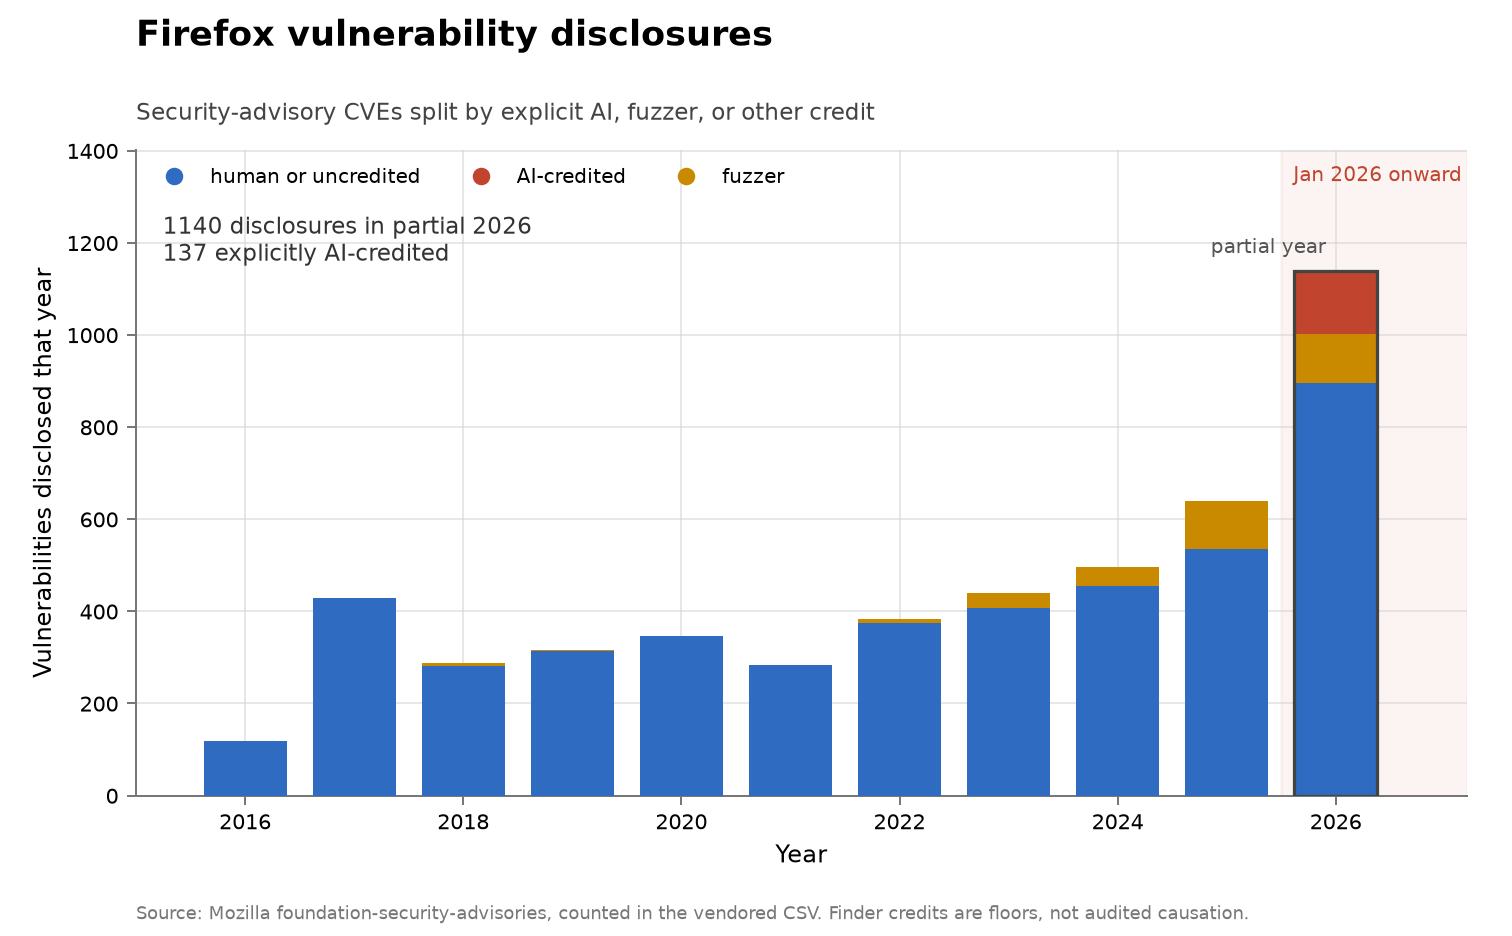
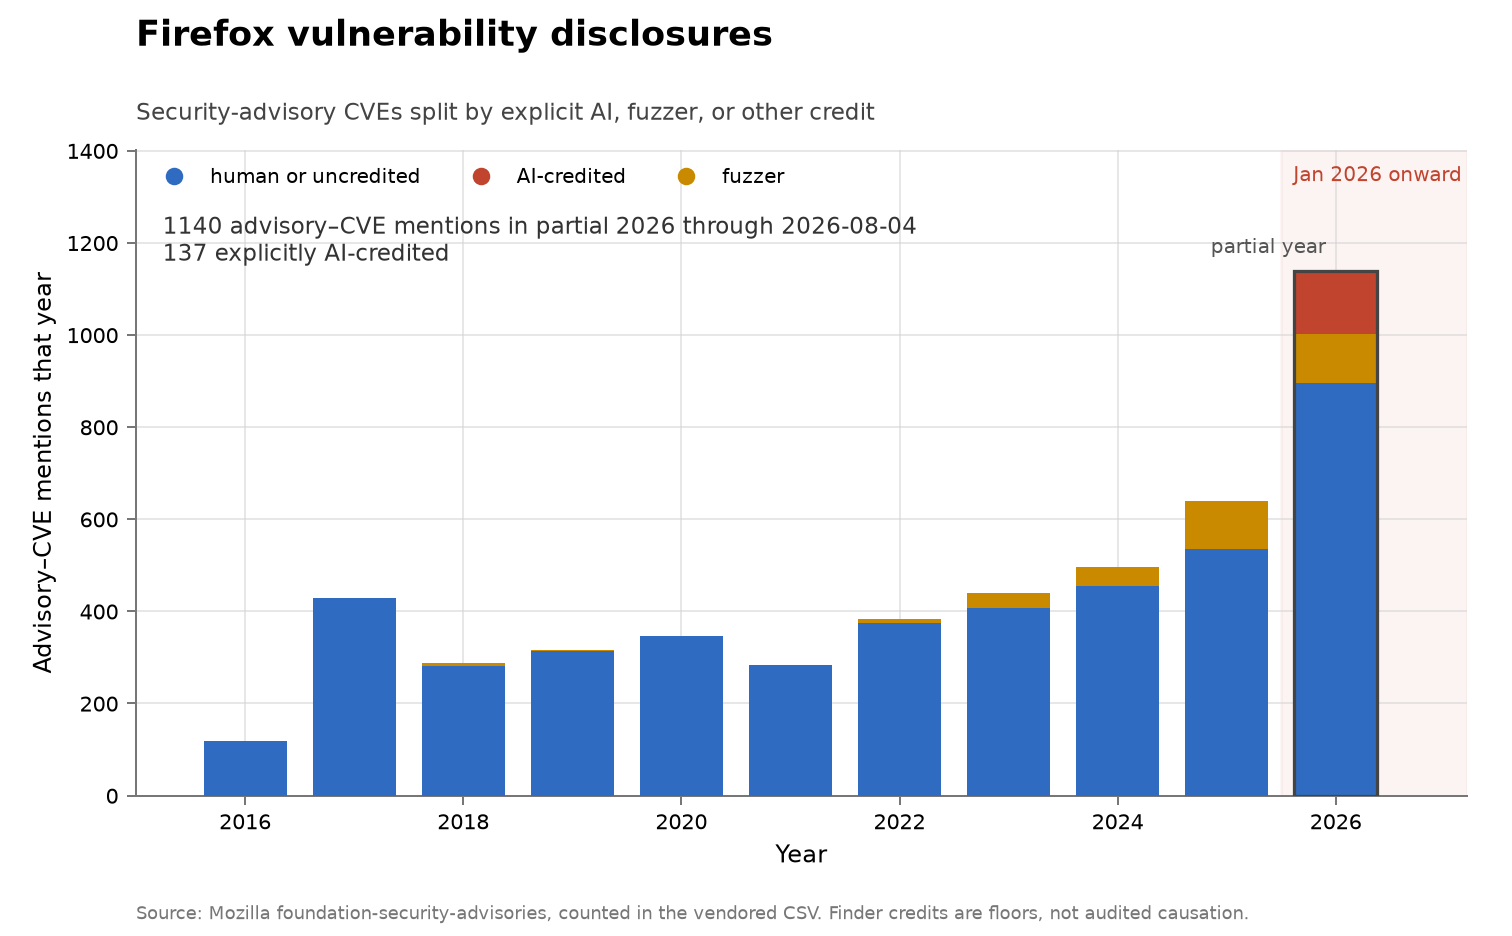
Clarify Firefox units and preserve full OpenSSL credits

Changed region(s): [[0.1554, 0.2169, 0.6217, 0.2479], [0.0, 0.2788, 0.0311, 0.7126]]

diff --git a/problems/cyber-firefox/fetch.py b/problems/cyber-firefox/fetch.py
@@ -70,41 +70,64 @@ def records() -> list[dict]:
                 parsed = yaml.safe_load(text) or {}
             except Exception:
                 continue
+            announced_text = str(parsed.get("announced") or "")
+            try:
+                announced_date = datetime.strptime(
+                    announced_text, "%B %d, %Y"
+                ).date().isoformat()
+            except ValueError:
+                announced_date = ""
             for key, value in (parsed.get("advisories") or {}).items():
                 if not str(key).startswith("CVE"):
                     continue
                 reporter = (
                     str(value.get("reporter", "")) if isinstance(value, dict) else ""
                 )
-                rows.append({"year": year, "reporter": reporter})
+                rows.append({
+                    "year": year,
+                    "announced": announced_date,
+                    "cve": str(key),
+                    "reporter": reporter,
+                })
     return rows
 
 
 def build_annual(rows: list[dict]) -> list[dict]:
     per_year: dict[int, Counter] = defaultdict(Counter)
+    unique_cves: dict[int, set[str]] = defaultdict(set)
+    unique_ai_cves: dict[int, set[str]] = defaultdict(set)
     ai_reporters: Counter = Counter()
     for record in rows:
         bucket = per_year[record["year"]]
         bucket["total"] += 1
+        unique_cves[record["year"]].add(record["cve"])
         category = classify(record["reporter"], ai=FIREFOX_AI)
         bucket[f"{category}_attributed"] += 1
         if category == "ai":
             ai_reporters[record["reporter"][:90]] += 1
+            unique_ai_cves[record["year"]].add(record["cve"])
     this_year = datetime.now(timezone.utc).year
+    latest = max(
+        (record["announced"] for record in rows if record["announced"]),
+        default="",
+    )
     annual = [
         {
             "year": year,
             "total": per_year[year]["total"],
+            "unique_cves": len(unique_cves[year]),
             "ai_attributed": per_year[year]["ai_attributed"],
+            "unique_ai_cves": len(unique_ai_cves[year]),
             "fuzz_attributed": per_year[year]["fuzz_attributed"],
             "other_attributed": per_year[year]["other_attributed"],
             "partial_year": "yes" if year == this_year else "no",
+            "data_through": latest if year == this_year else "",
         }
         for year in sorted(per_year)
         if per_year[year]["total"]
     ]
     print(
-        f"firefox: {sum(r['total'] for r in annual)} CVEs, "
+        f"firefox: {sum(r['total'] for r in annual)} advisory-CVE mentions, "
         f"{annual[0]['year']}–{annual[-1]['year']}"
     )
     print(
@@ -135,7 +158,8 @@ def build_finders(rows: list[dict]) -> list[dict]:
     print(f"firefox finders: {len(out)} year-finder rows, {len(ai)} AI-credited")
     if ai:
         top = max(ai, key=lambda row: row["cves"])
-        print(f"  top AI finder {top['cves']} CVEs — {top['finder'][:56]}")
+        print(f"  top AI finder {top['cves']} advisory-CVE mentions — "
+              f"{top['finder'][:56]}")
     return out
 
 

diff --git a/lib/families.py b/lib/families.py
@@ -47,6 +47,9 @@ def cyber_stacked(
     source_label: str,
     source_url: str,
     built_by: str,
+    *,
+    ylabel: str = "Vulnerabilities disclosed that year",
+    unit_label: str = "disclosures",
 ) -> None:
     rows = read_csv(csv_path)
     years = [int(row["year"]) for row in rows]
@@ -84,25 +87,31 @@ def cyber_stacked(
     ax.set_xlim(min(years) - 1, right)
     ax.set_ylim(0, max(totals) * 1.23)
     shade_era(ax, right, annual=True)
-    style(ax, "Vulnerabilities disclosed that year")
+    style(ax, ylabel)
     ax.xaxis.set_major_locator(MaxNLocator(integer=True, nbins=7))
     ax.legend(handles=common_legend(fuzz=any(fuzz)), frameon=False, fontsize=8, ncol=3)
-    latest = rows[-1]
-    ax.text(
-        0.02,
-        0.9,
-        f"{latest['total']} disclosures in partial 2026\n"
-        f"{latest['ai_attributed']} explicitly AI-credited",
-        transform=ax.transAxes,
-        fontsize=9,
-        color="#333333",
-        va="top",
-    )
+    if partial:
+        latest = rows[partial[-1]]
+        through = (
+            f" through {latest['data_through']}"
+            if latest.get("data_through") else ""
+        )
+        ax.text(
+            0.02,
+            0.9,
+            f"{latest['total']} {unit_label} in partial {latest['year']}{through}\n"
+            f"{latest['ai_attributed']} explicitly AI-credited",
+            transform=ax.transAxes,
+            fontsize=9,
+            color="#333333",
+            va="top",
+        )
     source_note(fig, f"Source: {source_label}. Finder credits are floors, not audited causation.")
     save(
         fig,
         out_path,
-        f"{title}. Annual finder-attributed vulnerability disclosures; 2026 is partial.",
+        f"{title}. Annual finder-attributed {unit_label}; "
+        + (f"{rows[partial[-1]]['year']} is partial." if partial else "complete years."),
         [source_url],
         built_by,
     )

diff --git a/problems/cyber-openssl/fetch.py b/problems/cyber-openssl/fetch.py
@@ -41,7 +41,7 @@ PATTERN = re.compile(
     + r"(?:" + GAP + r"Severity" + GAP + r"([A-Za-z]+))?"
     + GAP + r"Published at" + GAP + r"(\d{1,2} [A-Z][a-z]+ \d{4})"
     + r"(?:" + GAP + r"Title" + GAP + r"[^|]{0,200})?"
-    + r"(?:" + GAP + r"Found by" + GAP + r"([^|]{0,160}))?"
+    + r"(?:" + GAP + r"Found by" + GAP + r"([^|]*))?"
 )
 
 
@@ -63,6 +63,9 @@ def records() -> tuple[list[dict], int]:
             {
                 "cve": cve,
                 "year": int(match.group(3).split()[-1]),
+                "published": datetime.strptime(
+                    match.group(3), "%d %B %Y"
+                ).date().isoformat(),
                 "finder": (match.group(4) or "").strip(),
             }
         )
@@ -81,6 +84,7 @@ def build_annual(rows: list[dict], named: int) -> list[dict]:
         if category == "ai":
             ai_names[record["finder"][:70]] += 1
     this_year = datetime.now(timezone.utc).year
+    latest = max((record["published"] for record in rows), default="")
     annual = [
         {
             "year": year,
@@ -89,6 +93,7 @@ def build_annual(rows: list[dict], named: int) -> list[dict]:
             "fuzz_attributed": per_year[year]["fuzz_attributed"],
             "other_attributed": per_year[year]["other_attributed"],
             "partial_year": "yes" if year == this_year else "no",
+            "data_through": latest if year == this_year else "",
         }
         for year in sorted(per_year)
     ]

diff --git a/problems/cyber-firefox/figure.py b/problems/cyber-firefox/figure.py
@@ -24,6 +24,8 @@ def main() -> None:
         "Mozilla foundation-security-advisories, counted in the vendored CSV",
         "https://github.com/mozilla/foundation-security-advisories",
         __file__,
+        ylabel="Advisory–CVE mentions that year",
+        unit_label="advisory–CVE mentions",
     )
 
 

diff --git a/problems/cyber-firefox/README.md b/problems/cyber-firefox/README.md
@@ -1,8 +1,8 @@
 # Firefox vulnerability disclosures
 
 **Domain:** vulnerabilities
-**Metric:** advisory CVEs per year, split by AI, fuzzer, or other reporter credit
-**Coverage:** 2016–2026, partial through 10 August 2026
+**Metric:** advisory–CVE mentions per year, split by AI, fuzzer, or other reporter credit; unique CVE IDs retained as a sensitivity count
+**Coverage:** 2016–2026, partial through the latest advisory on 4 August 2026
 **Data:** [`firefox-advisories.csv`](firefox-advisories.csv); per-reporter rows in [`firefox-finders.csv`](firefox-finders.csv)
 **Upstream:** <https://github.com/mozilla/foundation-security-advisories> (rendered at <https://www.mozilla.org/en-US/security/advisories/>)
 **Verdict:** accelerating — though disclosures roughly doubled from 2021 to 2025 with essentially no AI credit
@@ -12,7 +12,9 @@
 ## The problem
 
 Mozilla publishes one YAML file per security advisory, and each CVE inside it
-carries a `reporter` string. That makes Firefox the third fixed codebase in this
+carries a `reporter` string. The same CVE can appear in advisories for several
+products or releases, so the plotted unit is one advisory–CVE mention rather
+than one distinct vulnerability. That makes Firefox the third fixed codebase in this
 collection where the finder is named, and by far the largest: a browser is two
 orders of magnitude bigger than curl, with a correspondingly bigger attack
 surface and a much larger population of people looking at it.
@@ -25,18 +27,20 @@ is the whole reason this series is worth having next to curl: it separates
 ambiguity the 2026 numbers otherwise carry.
 
 A "discovery" here is one CVE listed in an advisory, counted in the advisory's
-announcement year. It is a disclosure count, not a count of bugs found or bugs
-remaining.
+announcement year. It is a disclosure-mention count, not a count of distinct
+bugs found or bugs remaining.
 
 ## What the chart shows
 
-A codebase whose disclosure count was already climbing: 119 CVEs in 2016, 429 in
-2017, then a range of roughly 280 to 500 a year through 2024, 640 in 2025, and
-1,140 through 10 August 2026 — a part-year total already 1.8 times the 2025
-full year.
+A codebase whose advisory-CVE count was already climbing: 119 mentions in 2016,
+429 in 2017, then a range of roughly 280 to 500 a year through 2024, 640 in
+2025, and 1,140 through the latest advisory on 4 August 2026 — a part-year total
+already 1.8 times the 2025 full year. Those last two totals represent 210 and
+342 distinct CVE IDs respectively.
 
 The AI band appears almost from nothing. No reporter string carries an AI marker
-until 2025, which has exactly one, and 2026 has 137, or 12% of that year's CVEs.
+until 2025, which has exactly one, and 2026 has 137 mentions across 37 distinct
+CVE IDs, or 12% of that year's mentions.
 The fuzzer band moves quite differently: 7 in 2018, 8 in 2022, then 32, 41, 104
 and 108 across 2023 to 2026. Fuzzer-credited discovery grew through 2025 and
 then flattened in the same step where AI-credited discovery went from 1 to 137.
@@ -58,7 +62,8 @@ blue, `fuzz_attributed` in amber, `ai_attributed` in red, with the
 misread as a full year. January 2026 onward is shaded, as in every figure here.
 
 The axis is linear and nothing is normalized, so a bar twice as tall is twice as
-many CVEs, and the amber band can be compared with the red one by eye.
+many advisory–CVE mentions, and the amber band can be compared with the red one
+by eye.
 
 The CSVs are built by [`fetch.py`](fetch.py),
 which walks every `announce/*.yml` file in Mozilla's repository, takes the year
@@ -72,13 +77,19 @@ structure, which is where the series starts. The annual counts match against
 `FIREFOX_AI` while the per-reporter rows in `firefox-finders.csv` match against
 `ADVISORY_AI`, one marker wider — an inconsistency inherited from the order the
 two lists were written in, preserved here because unifying them would move
-published counts.
+published counts. The annual CSV also retains `unique_cves` and
+`unique_ai_cves`, deduplicated by CVE ID within each year, so the mention count
+can be compared with a distinct-ID sensitivity count.
 
 ## What it cannot support
 
 - **The AI share is a floor.** A reporter string is free text, so a researcher
   who used a model and did not mention it counts as human and the 12% is a lower
   bound by an unknown margin.
+- **Mentions are not unique vulnerabilities.** A CVE repeated across product or
+  release advisories contributes more than once to the plotted bar. In 2026,
+  1,140 mentions represent 342 distinct IDs, so this chart is not directly
+  comparable to a deduplicated CVE series such as NVD.
 - **No severity comparison.** Mozilla sets `impact` per advisory as well as per
   CVE, and this collection has not untangled the two, so the depth check the
   curl series supports is not available here.
@@ -87,17 +98,18 @@ published counts.
 - **The codebase is fixed but the effort is not.** Nothing here gives a
   denominator of search effort, and Mozilla's security investment grew over the
   same period.
-- **2026 is a part-year** through 10 August, so the bar is outlined and should
+- **2026 is a part-year** through the latest advisory on 4 August, so the bar is outlined and should
   not be compared directly with the full years beside it.
 
 ## LLM contributions
 
 The concentration is extreme and is the main finding of this series. Of the 137
-AI-credited CVEs in 2026, 121 are credited to a single seven-person team —
+AI-credited advisory–CVE mentions in 2026, 121 (covering 31 distinct CVE IDs)
+are credited to a single seven-person team —
 Evyatar Ben Asher, Keane Lucas, Nicholas Carlini, Newton Cheng, Daniel Freeman,
 Alex Gaynor and Joel Weinberger, using Claude from Anthropic — so roughly 11% of
 everything Firefox disclosed in 2026 traces to one coordinated effort with one
-tool. The remainder is 11 CVEs credited to Amy Burnett of OpenAI, 2 to Artur
+tool. The remaining mentions are 11 credited to Amy Burnett of OpenAI, 2 to Artur
 Cygan of Trail of Bits in partnership with OpenAI, 2 to "Claude, Kai Engert",
 and 1 to OpenAI Preparedness with Bill Demirkapi. The single 2025 AI credit is
 Aisle Research. Alex Gaynor also appears in OpenSSL's credits, so this is not a

diff --git a/README.md b/README.md
@@ -137,7 +137,7 @@ not.
 | Chart | Series |
 |---|---|
 | <a href="problems/cyber-curl/"><img src="problems/cyber-curl/discovery-cyber-curl.png" width="400" alt="curl vulnerability disclosures"></a> | <b><a href="problems/cyber-curl/">curl vulnerability disclosures</a></b><br><b>Metric:</b> vulnerabilities disclosed per year,<br>split by finder credit<br><b>Coverage:</b> 2000–2026, partial through<br>2026-06-24<br><b>Acceleration?</b> 📈 accelerating |
-| <a href="problems/cyber-firefox/"><img src="problems/cyber-firefox/discovery-cyber-firefox.png" width="400" alt="Firefox vulnerability disclosures"></a> | <b><a href="problems/cyber-firefox/">Firefox vulnerability disclosures</a></b><br><b>Metric:</b> advisory CVEs per year, split by AI,<br>fuzzer, or other reporter credit<br><b>Coverage:</b> 2016–2026, partial through 10 August<br>2026<br><b>Acceleration?</b> 📈 accelerating — though<br>disclosures roughly doubled from 2021 to 2025<br>with essentially no AI credit |
+| <a href="problems/cyber-firefox/"><img src="problems/cyber-firefox/discovery-cyber-firefox.png" width="400" alt="Firefox vulnerability disclosures"></a> | <b><a href="problems/cyber-firefox/">Firefox vulnerability disclosures</a></b><br><b>Metric:</b> advisory–CVE mentions per year, split<br>by AI, fuzzer, or other reporter credit;<br>unique CVE IDs retained as a sensitivity count<br><b>Coverage:</b> 2016–2026, partial through the<br>latest advisory on 4 August 2026<br><b>Acceleration?</b> 📈 accelerating — though<br>disclosures roughly doubled from 2021 to 2025<br>with essentially no AI credit |
 | <a href="problems/cyber-kev-exploited/"><img src="problems/cyber-kev-exploited/discovery-cyber-kev-exploited.png" width="400" alt="All software: vulnerabilities known exploited"></a> | <b><a href="problems/cyber-kev-exploited/">All software: vulnerabilities known exploited</a></b><br><b>Metric:</b> CVEs added per year to CISA's Known<br>Exploited Vulnerabilities catalogue<br><b>Coverage:</b> 2021–2026, from the catalogue's<br>November 2021 launch, partial through<br>2026-08-10<br><b>Acceleration?</b> ➡ no acceleration — additions<br>annualize to about +20% in 2026 against +64%<br>for disclosures |
 | <a href="problems/cyber-nvd-disclosed/"><img src="problems/cyber-nvd-disclosed/discovery-cyber-nvd-disclosed.png" width="400" alt="All software: vulnerabilities disclosed"></a> | <b><a href="problems/cyber-nvd-disclosed/">All software: vulnerabilities disclosed</a></b><br><b>Metric:</b> CVEs published per year in the US<br>National Vulnerability Database<br><b>Coverage:</b> 2016–2026, partial through<br>2026-08-10<br><b>Acceleration?</b> 📈 accelerating — but growth was<br>already +32% and +23% in 2024 and 2025, and no<br>disclosure here is attributed to anyone |
 | <a href="problems/cyber-openssl/"><img src="problems/cyber-openssl/discovery-cyber-openssl.png" width="400" alt="OpenSSL vulnerability disclosures"></a> | <b><a href="problems/cyber-openssl/">OpenSSL vulnerability disclosures</a></b><br><b>Metric:</b> vulnerabilities disclosed per year,<br>split by finder credit<br><b>Coverage:</b> 2002–2026, partial through 5 August<br>2026<br><b>Acceleration?</b> 📈 accelerating — but the same<br>shape appeared in 2015–2016 from a purely<br>human cause |

diff --git a/problems/cyber-openssl/README.md b/problems/cyber-openssl/README.md
@@ -35,7 +35,7 @@ page could not be given a date and are absent from the counts.
 
 Single digits for most of a decade, then a step: 3 disclosures in 2020, 8 in
 2021, 13 in 2022, 19 in 2023, 9 in 2024, 6 in 2025, and 39 through 5 August
-2026. Of those 39, 26 credit an AI system or an AI-security firm — about two
+2026. Of those 39, 27 credit an AI system or an AI-security firm — about two
 thirds, the highest AI share of any series in this collection, against 3 of 6
 in 2025 and none in any earlier year.
 
@@ -86,9 +86,9 @@ fuzzer is automated without being a model.
 
 ## LLM contributions
 
-The 26 AI-credited CVEs of 2026 come from a very small group. Counting the
-credit lines in `openssl-finders.csv`, 18 name Aisle Research and 9 name
-Anthropic, with one line naming both, which accounts for all 26. Stanislav Fort
+The 27 AI-credited CVEs of 2026 come from a very small group. Counting the
+credit lines in `openssl-finders.csv`, 19 name Aisle Research and 9 name
+Anthropic, with one line naming both, which accounts for all 27. Stanislav Fort
 of Aisle Research is the single largest finder, credited alone on 5 and sharing
 4 more; Alex Gaynor of Anthropic is credited on 5; Luigino Camastra of Aisle
 Research on 4; Igor Morgenstern of Aisle Research on 2; and one names Claude

diff --git a/problems/cyber-curl/README.md b/problems/cyber-curl/README.md
@@ -28,9 +28,10 @@ not a count of bugs introduced or bugs remaining.
 
 ## What the chart shows
 
-Roughly ten disclosures a year from 2017 through 2025, then 36 in the first half
-of 2026 alone — with 15 of those crediting an AI system or an AI-security firm.
-Annualized, 2026 is running near 72 a year against 13.1 a year across 2014–2023.
+Roughly twelve disclosures a year from 2017 through 2025, then 36 through
+24 June 2026 alone — with 15 of those crediting an AI system or an AI-security
+firm. Annualized from that exact date, 2026 is running near 75 a year against
+13.1 a year across 2014–2023.
 
 This is the clearest bend in any series in the collection, and the one place
 where a collective-progress curve visibly changes slope in the agent era.
